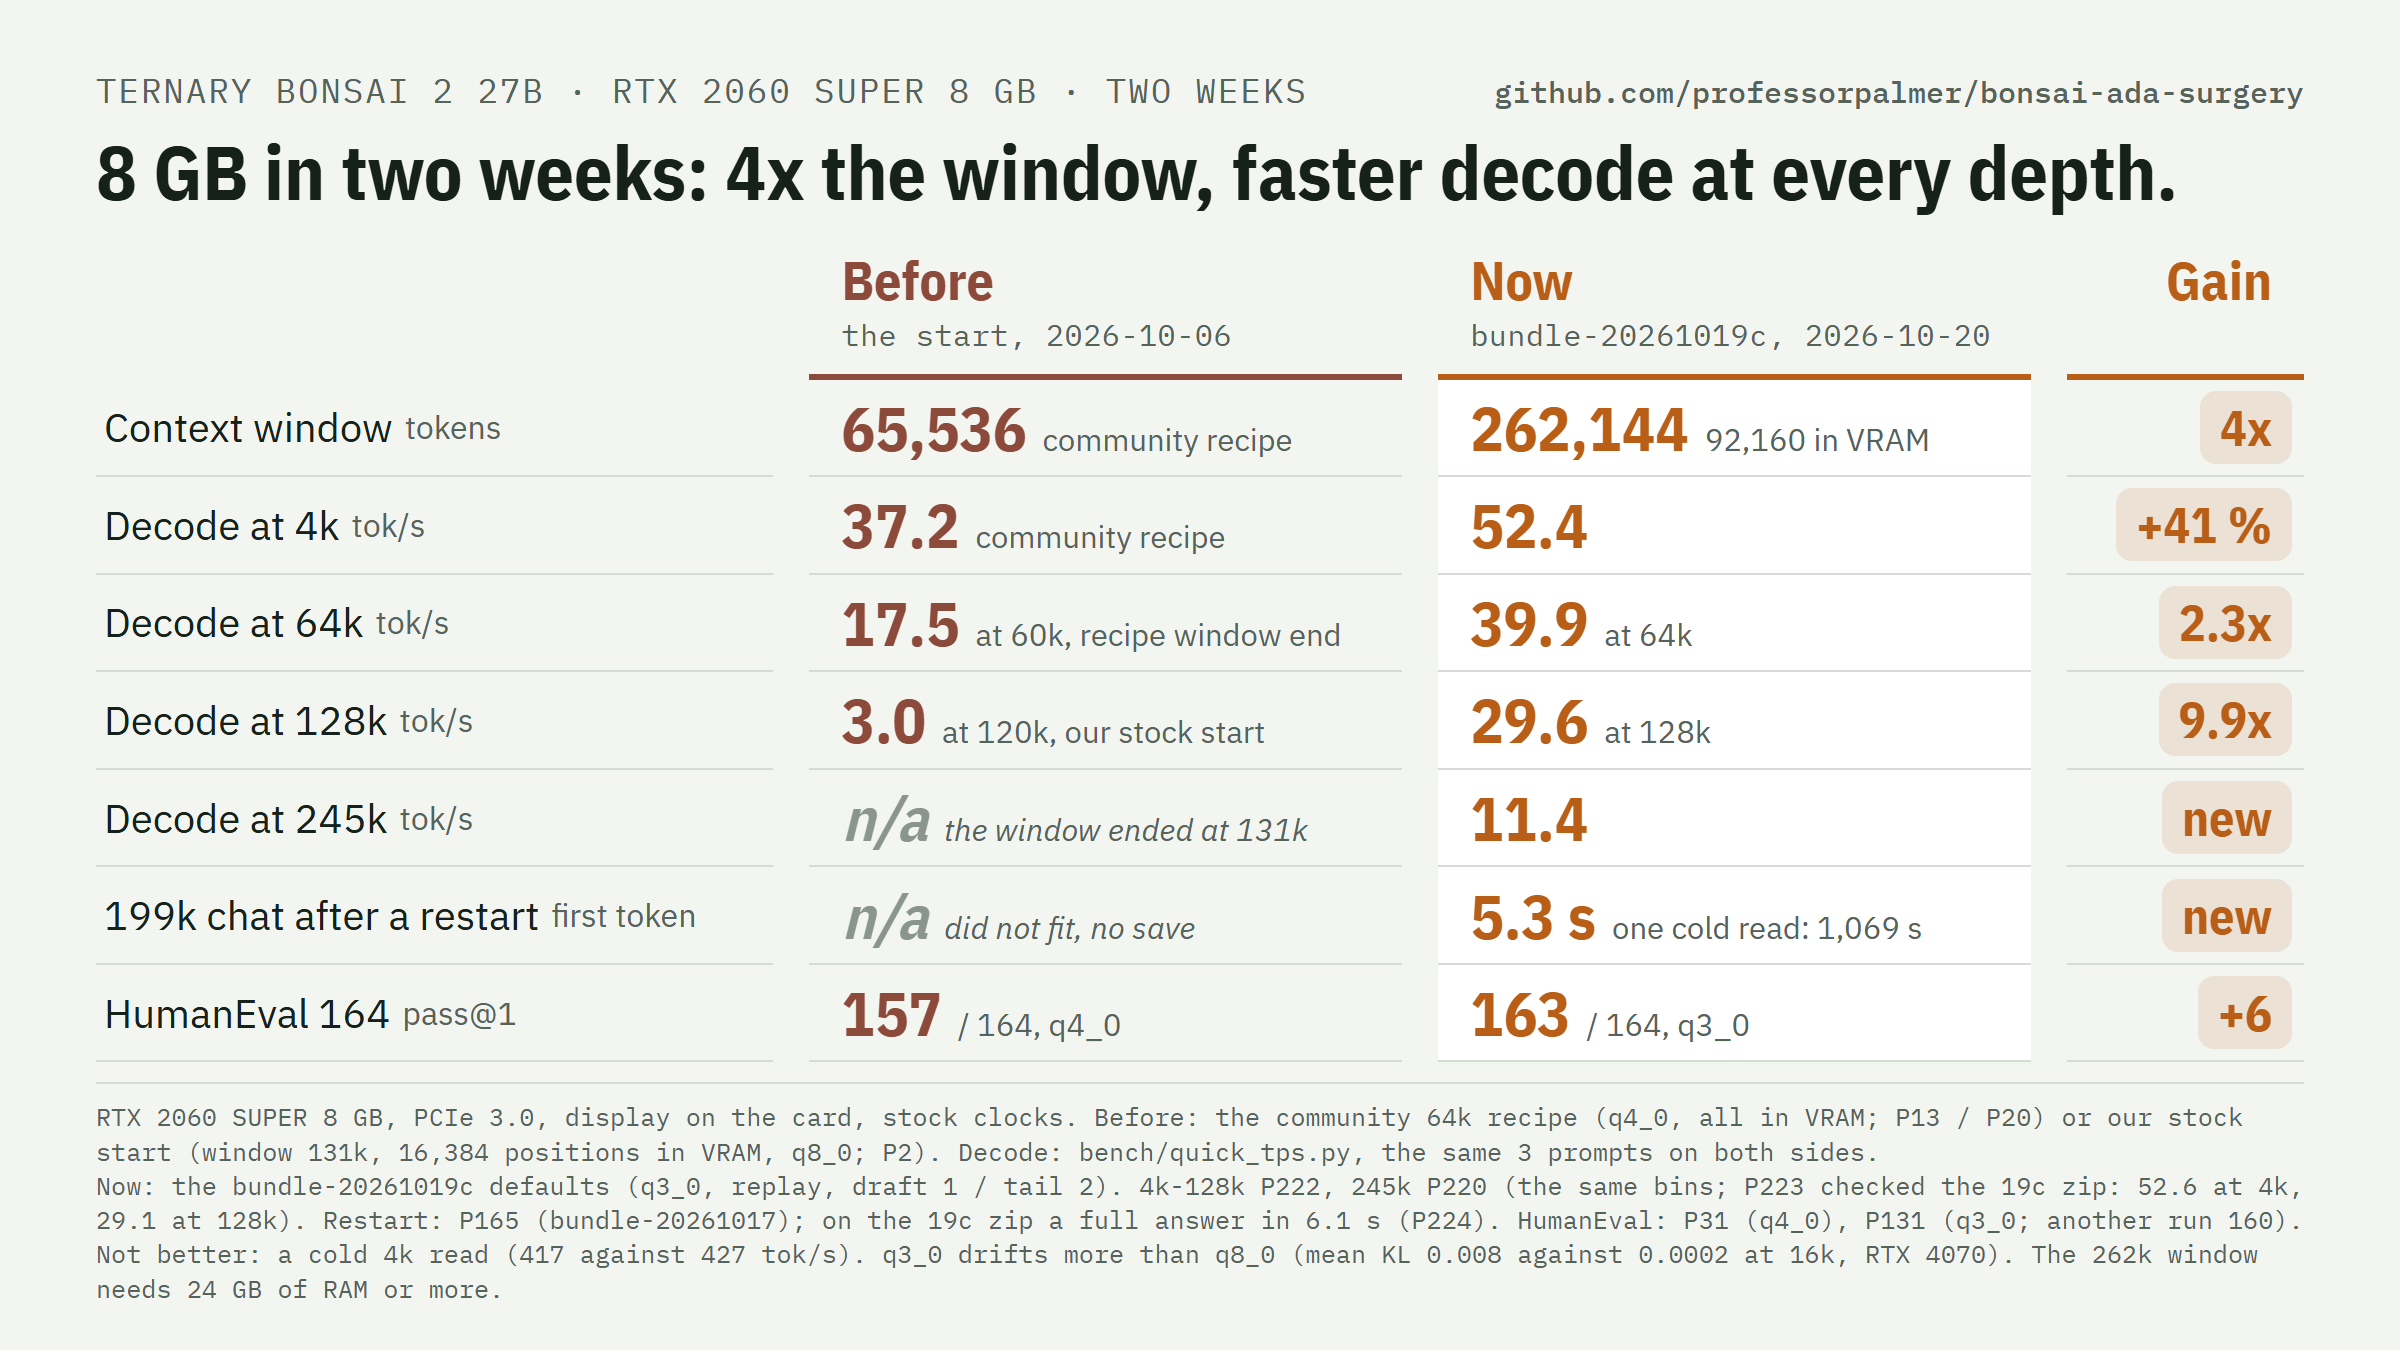
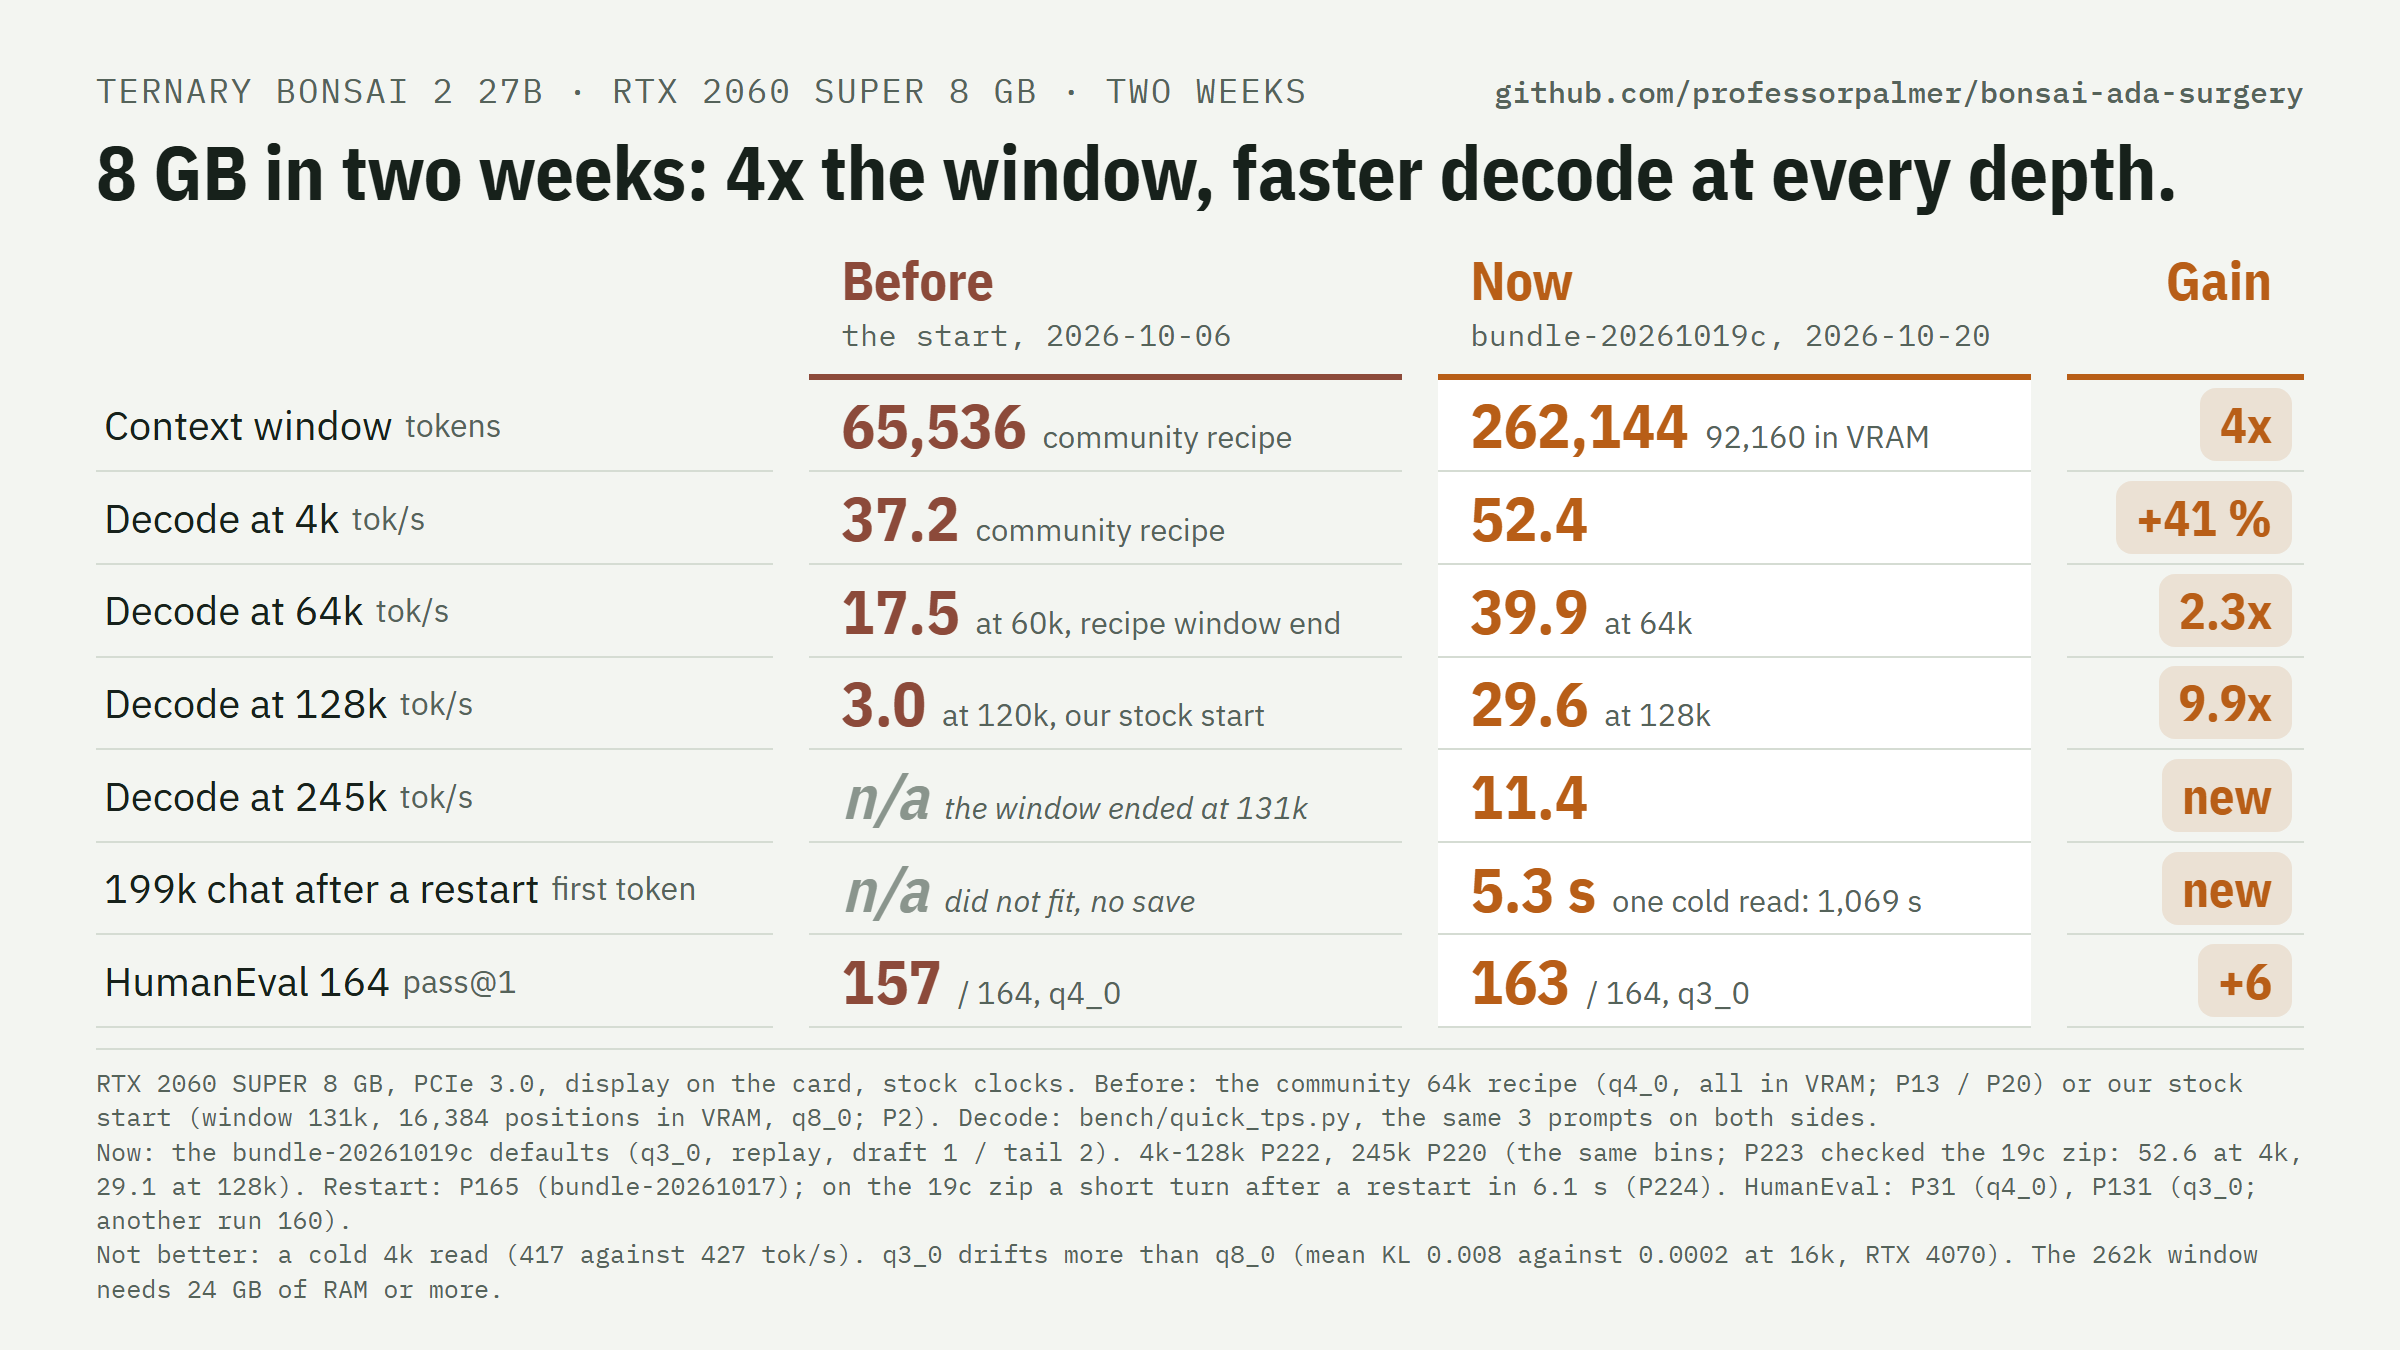
docs: two 8 GB wording fixes: the week card calls the 6.1 s P224 turn a short turn after a restart (its answer was the wrong Q2, not a full answer); SAVED_CONVERSATIONS.md cites P165 (shipped bins) and P224 (19c) instead of P160 (test bins)

Changed region(s): [[0.0312, 0.28, 0.9688, 0.9333], [0.0312, 0.3111, 0.2188, 0.3422], [0.0312, 0.3733, 0.1875, 0.4044]]

diff --git a/docs/cards/week8gb.html b/docs/cards/week8gb.html
@@ -8,7 +8,7 @@
 var DATA = {
   foot: [
     'RTX 2060 SUPER 8 GB, PCIe 3.0, display on the card, stock clocks. Before: the community 64k recipe (q4_0, all in VRAM; P13 / P20) or our stock start (window 131k, 16,384 positions in VRAM, q8_0; P2). Decode: bench/quick_tps.py, the same 3 prompts on both sides.',
-    'Now: the bundle-20261019c defaults (q3_0, replay, draft 1 / tail 2). 4k-128k P222, 245k P220 (the same bins; P223 checked the 19c zip: 52.6 at 4k, 29.1 at 128k). Restart: P165 (bundle-20261017); on the 19c zip a full answer in 6.1 s (P224). HumanEval: P31 (q4_0), P131 (q3_0; another run 160).',
+    'Now: the bundle-20261019c defaults (q3_0, replay, draft 1 / tail 2). 4k-128k P222, 245k P220 (the same bins; P223 checked the 19c zip: 52.6 at 4k, 29.1 at 128k). Restart: P165 (bundle-20261017); on the 19c zip a short turn after a restart in 6.1 s (P224). HumanEval: P31 (q4_0), P131 (q3_0; another run 160).',
     'Not better: a cold 4k read (417 against 427 tok/s). q3_0 drifts more than q8_0 (mean KL 0.008 against 0.0002 at 16k, RTX 4070). The 262k window needs 24 GB of RAM or more.'
   ],
   heads: { before: 'the start, 2026-10-06', after: 'bundle-20261019c, 2026-10-20' },

diff --git a/docs/agents-layer/SAVED_CONVERSATIONS.md b/docs/agents-layer/SAVED_CONVERSATIONS.md
@@ -88,8 +88,8 @@ card; #138).
 
 With the layer on, saving and restoring is automatic (`layer/slot_cache.py`): for prompts of 16k tokens or more the
 layer saves the conversation and, after a restart or when conversations alternate, restores the longest saved prefix
-before the request (RTX 2060 SUPER: a 199k conversation answers in ~6 s after a restart, P160). Since
-bundle-20261018b the layer saves after the answer instead of before the request (needs patch 0067;
+before the request (RTX 2060 SUPER, a 199k conversation after a restart: the first token in 5.3 s on bundle-20261017,
+P165; a short turn in 6.05 s on bundle-20261019c, P224). Since bundle-20261018b the layer saves after the answer instead of before the request (needs patch 0067;
 `BONSAI_SLOT_CACHE_AFTER=0` goes back to the save before the request), when the next turn renders the answer with the
 same tokens (thinking off, or a client that sends the reasoning back; the layer tests this per conversation and falls
 back): no prefill-only call, and the client has the answer before the save starts. 4070 with the 8 GB layout, G1
